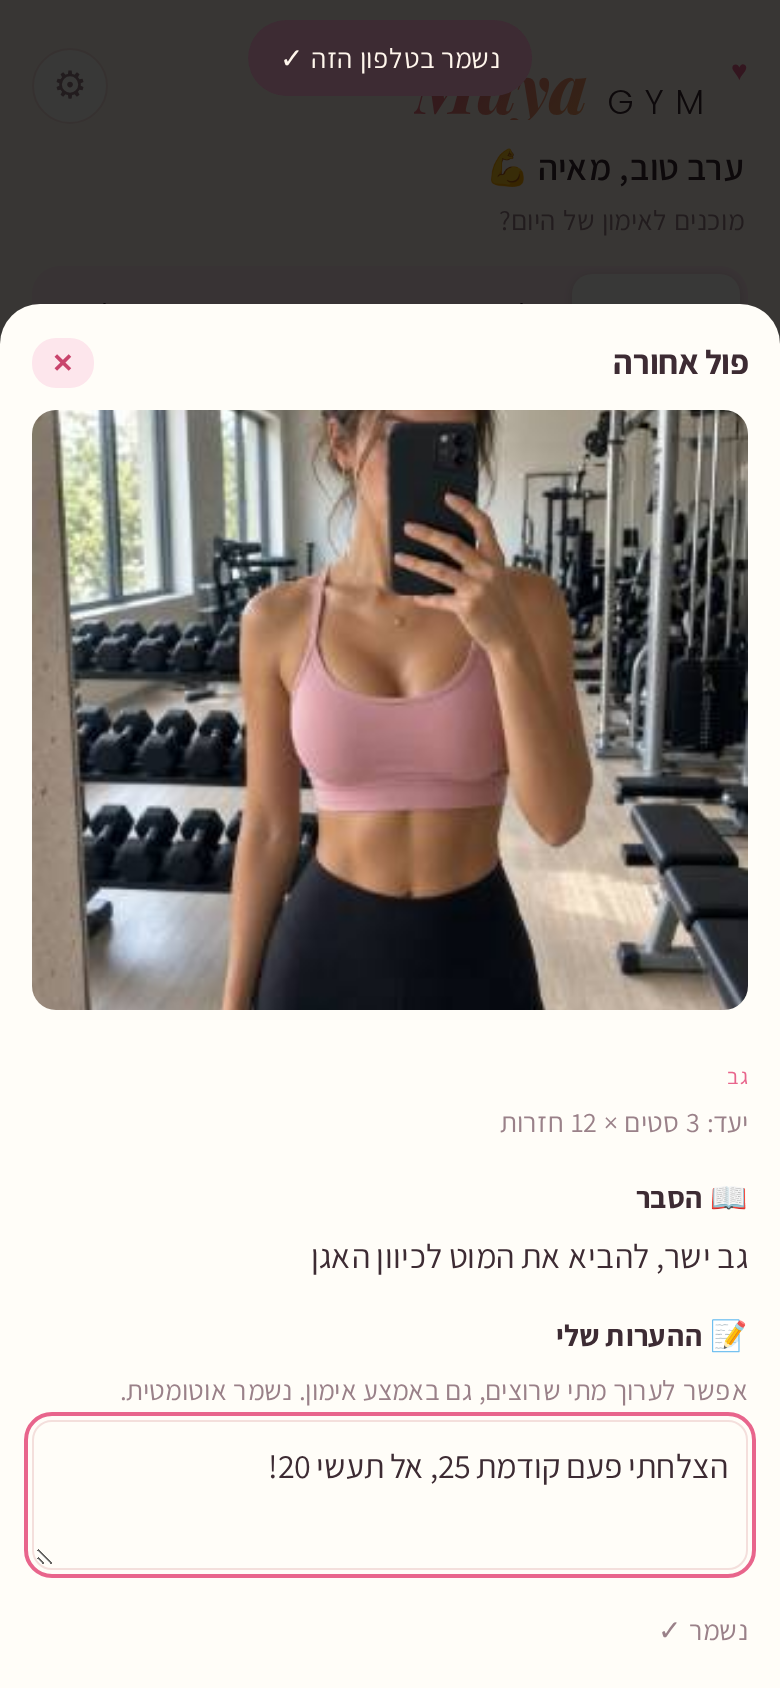
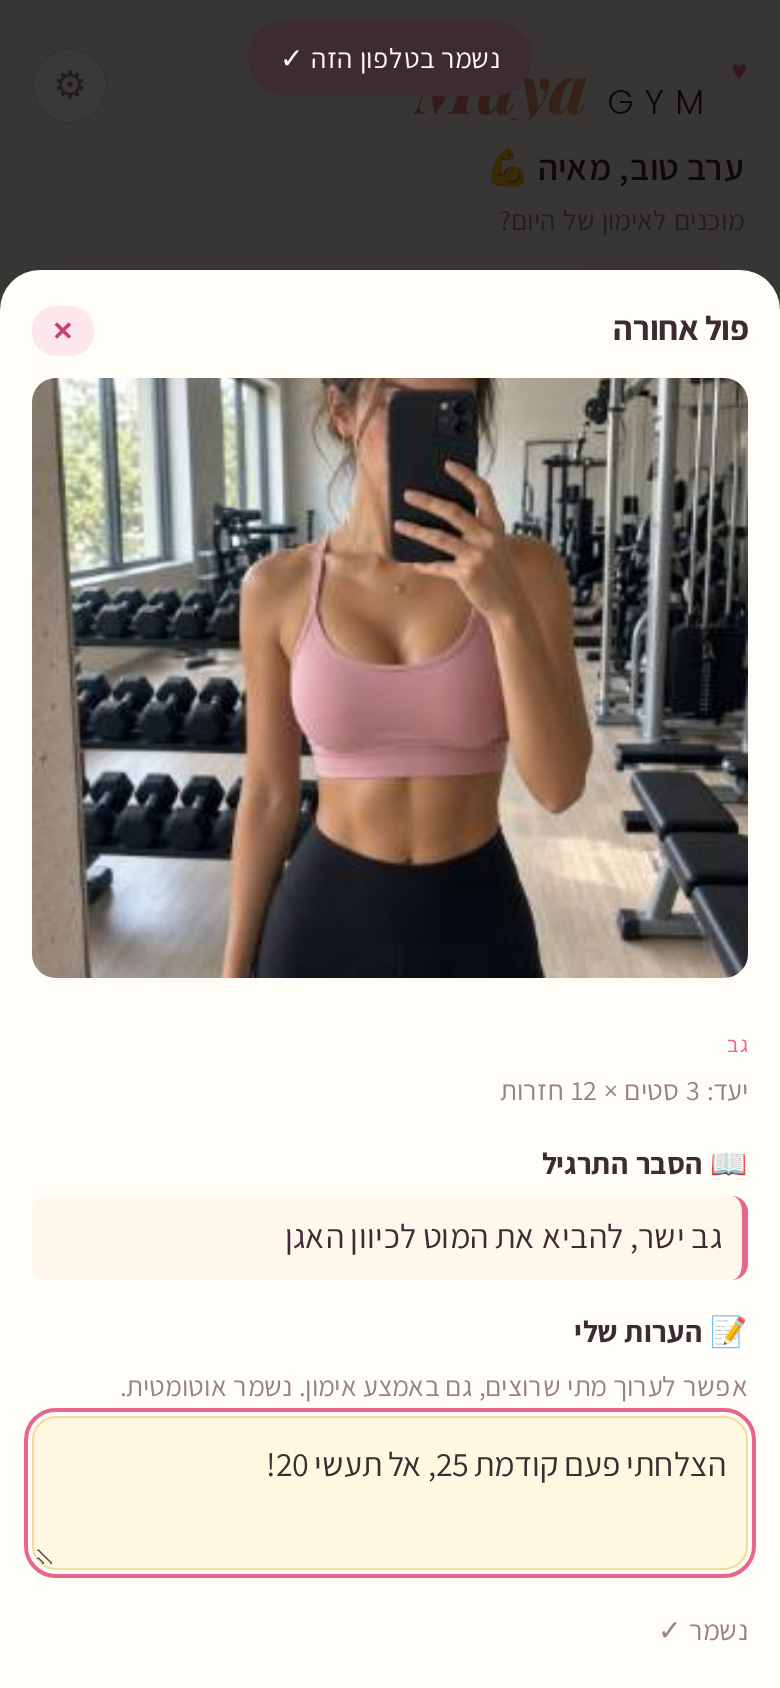
Separate explanation / numeric weight / my notes; migrate item notes; fix local-save BASE aliasing

diff --git a/index.html b/index.html
@@ -66,6 +66,13 @@ body.hasfab #view{padding-bottom:84px}
 @keyframes pu{from{transform:scale(.85);opacity:0}}@keyframes fi{from{opacity:0}}
 .xdh{margin:14px 0 4px;font-size:15px;font-weight:700;text-align:start;display:block;width:100%}.dp{margin:0 0 6px;white-space:pre-wrap}.mynote{width:100%;font:inherit}
 .myn{margin-top:3px;font-size:13px;background:#fff4d6;color:#7a5200;border-radius:8px;padding:3px 8px;display:inline-block}.myn[hidden]{display:none}
+.dp{background:var(--bg);border-inline-start:3px solid var(--ac);border-radius:8px;padding:8px 10px;line-height:1.5}.dp.empty{opacity:.6;border-color:var(--bd)}
+.mnw{margin-top:6px}.mynote{background:#fff8e1;border:1px solid #f3dc9a!important;border-radius:12px;padding:10px}
+.wpill{display:flex;justify-content:space-between;align-items:center;background:#f2eaf5;border-radius:99px;padding:6px 14px;margin:10px 0 2px;font-size:14px}.wpill b{font-size:16px;color:#5c3a48}
+.wfield{display:inline-flex;align-items:center;background:#f2eaf5;border-radius:99px;padding:0 12px 0 4px;gap:4px}.wfield input{width:64px;border:none!important;background:none!important;margin:0!important;padding:6px!important;text-align:center;font-weight:700;font-size:16px}.wfield span{font-size:13px;color:#5c3a48}
+.wl{font-weight:600}.wsm{display:block;font-size:12px;color:#5c3a48;margin-top:3px;text-align:center}.ic{display:flex;flex-direction:column;align-items:center}
+.efr{display:flex;gap:8px;width:100%;margin-top:6px;align-items:flex-end}.ef{display:flex;flex-direction:column;gap:3px}.ef small{font-size:12px;color:var(--mu)}.ef>input{width:64px;margin:0}.ef:last-child{flex:1}
+.myn{white-space:pre-wrap}
 .tag{background:#ffffff1f;color:#ffd6e1}
 .xtop{display:flex;justify-content:space-between;align-items:center;margin:2px 4px 8px}.xtop span{opacity:.6;font-size:13px}
 .tag{font-size:11px;color:var(--ac)}
@@ -183,7 +190,7 @@ const L={get(k,d){try{const v=localStorage.getItem(k);return v==null?d:JSON.pars
 let DATA={ex:[],wk:[],sch:[]};try{DATA=Object.assign(DATA,JSON.parse($("#data").textContent))}catch(_){}
 /* local mode (outside Claude): changes are kept only in this browser, layered over the published data */
 const BASE=JSON.parse(JSON.stringify(DATA)),COLS=["ex","wk","sch"];let localMode=false;
-function applyLocal(){const l=L.get("gym:local",null);if(!l)return;COLS.forEach(c=>{const del=new Set(l.del||[]),ov=new Map((l[c]||[]).map(x=>[x.id,x]));const out=BASE[c].filter(x=>!del.has(x.id)).map(x=>ov.get(x.id)||x);(l[c]||[]).forEach(x=>{if(!BASE[c].some(b=>b.id===x.id))out.push(x)});DATA[c]=out})}
+function applyLocal(){const l=L.get("gym:local",null);if(!l)return;COLS.forEach(c=>{const del=new Set(l.del||[]),ov=new Map((l[c]||[]).map(x=>[x.id,x]));const out=BASE[c].filter(x=>!del.has(x.id)).map(x=>ov.get(x.id)||x);(l[c]||[]).forEach(x=>{if(!BASE[c].some(b=>b.id===x.id))out.push(x)});DATA[c]=JSON.parse(JSON.stringify(out))})}
 function saveLocal(){const l={del:[]};COLS.forEach(c=>{const bm=new Map(BASE[c].map(x=>[x.id,x]));l[c]=DATA[c].filter(x=>!bm.has(x.id)||JSON.stringify(bm.get(x.id))!==JSON.stringify(x));BASE[c].forEach(b=>{if(!DATA[c].some(x=>x.id===b.id))l.del.push(b.id)})});L.set("gym:local",l)}
 let libMode=false,canEdit=false,art=null,tab=L.get("gym:tab2",0),filter="הכל",openW=null,editW=null,pick=false,showForm=false,editEx=null;
 const exById=id=>DATA.ex.find(e=>e.id===id),wkById=id=>DATA.wk.find(k=>k.id===id);
@@ -251,7 +258,7 @@ function ov(...n){const o=$("#ov");if(!n.length){o.replaceChildren();return}cons
 function ov2(...n){const o=$("#ov2");if(!n.length){o.replaceChildren();return}const sh=el("div",{class:"sheet",on:{click:e=>{if(e.target===sh)ov2()}}},el("div",{class:"sh"},n));o.replaceChildren(sh)}
 const closeBtn=f=>el("button",{class:"btn g s",text:"✕","aria-label":"סגור",on:{click:f}});
 function itemsList(k){return el("div",{},(k.items||[]).map((it,i)=>{const ex=exById(it.ex);
-  return el("div",{class:"item"},thumb(ex,"th"),el("div",{class:"n"},el("b",{text:(i+1)+". "+(ex?ex.name:"(תרגיל נמחק)")}),it.note?el("div",{class:"mu",text:it.note}):null),el("span",{class:"num",text:(it.sets||"-")+" × "+(it.reps||"-")}))}))}
+  return el("div",{class:"item"},thumb(ex,"th"),el("div",{class:"n"},el("b",{text:(i+1)+". "+(ex?ex.name:"(תרגיל נמחק)")}),ex&&ex.my?el("div",{class:"myn",text:"📝 "+ex.my}):null),el("div",{class:"ic"},el("span",{class:"num",text:(it.sets||"-")+" × "+(it.reps||"-")}),it.w?el("span",{class:"wsm",text:"🏋 "+it.w+" ק״ג"}):null))}))}
 function greet(){
   const g=$("#greet");if(!g)return;const n=L.get("gym:name","");const h=new Date().getHours();
   const w=h>=5&&h<12?"בוקר טוב":h<17?"צהריים טובים":h<21?"ערב טוב":"לילה טוב";
@@ -282,21 +289,30 @@ function showExercise(ex,it){
     ex.img?el("img",{class:"big",src:ex.img,alt:ex.name}):null,
     el("span",{class:"tag",text:ex.muscle||""}),
     it?el("div",{class:"mu",text:"יעד: "+(it.sets||"-")+" סטים × "+(it.reps||"-")+" חזרות"}):null,
-    el("div",{class:"xdh",text:"📖 הסבר"}),
-    el("p",{class:"dp",text:exDesc(ex,it)||"אין הסבר לתרגיל הזה עדיין."}),
-    it&&it.note&&it.note.trim()!==exDesc(ex,it)?el("div",{class:"mu",text:"הערה באימון הזה: "+it.note}):null,
+    wPill(it&&it.w||L.get("gym:lw:"+ex.id,""),it&&it.w?"משקל באימון":"משקל אחרון"),
+    el("div",{class:"xdh",text:"📖 הסבר התרגיל"}),
+    el("div",{class:"dp"+(exDesc(ex)?"":" empty"),text:exDesc(ex)||"אין הסבר לתרגיל הזה עדיין."}),
     noteBox(ex));
 }
 /* explanation: the exercise's own desc; older data may only have it in ex.note or in a workout item note */
-function exDesc(ex,it){return ((ex&&(ex.desc||ex.note))||(it&&it.note)||"").trim()}
-function normEx(){DATA.ex.forEach(e=>{if(!(e.desc||"").trim()){const n=(e.note||"").trim()||((DATA.wk.flatMap(k=>k.items||[]).find(it=>it.ex===e.id&&(it.note||"").trim())||{}).note||"").trim();if(n)e.desc=n}})}
+function exDesc(ex){return ((ex&&(ex.desc||ex.note))||"").trim()}
+function wPill(w,lbl){return w?el("div",{class:"wpill"},el("span",{text:"🏋 "+(lbl||"משקל")}),el("b",{text:w+" ק״ג"})):null}
+const numOnly=i=>i.addEventListener("input",()=>{const v=i.value.replace(/[^\d.,]/g,"").replace(",",".");if(v!==i.value)i.value=v});
+function wIn(val,ph){const i=el("input",{inputmode:"decimal",class:"wnum",placeholder:ph||"0",value:val||""});numOnly(i);return [el("label",{class:"wfield"},i,el("span",{text:"ק״ג"})),i]}
+function addMy(e,t){t=(t||"").trim();if(!e||!t)return;const m=(e.my||"").trim();if(m.includes(t))return;e.my=m?m+"\n"+t:t}
+function splitW(t){t=(t||"").trim();const m=t.match(/(\d+(?:[.,]\d+)?)\s*(?:ק[״"']?ג|קילו(?:גרם)?|קג|kg)?/i);if(!m)return{w:"",rest:t};
+  return{w:m[1].replace(",","."),rest:(t.slice(0,m.index)+" "+t.slice(m.index+m[0].length)).replace(/\s+/g," ").replace(/^[\s,.\-–:]+|[\s,.\-–:]+$/g,"")}}
+function normEx(){normEx0();DATA.wk.forEach(k=>(k.items||[]).forEach(it=>{if(it.note==null||it.note==="")return delete it.note;
+  const e=exById(it.ex),{w,rest}=splitW(it.note);if(w&&!it.w)it.w=w;else if(w)addMy(e,it.note.trim());
+  if(rest&&rest!==exDesc(e))addMy(e,rest);delete it.note}))}
+function normEx0(){DATA.ex.forEach(e=>{if(!(e.desc||"").trim()){const n=(e.note||"").trim()||((DATA.wk.flatMap(k=>k.items||[]).find(it=>it.ex===e.id&&(it.note||"").trim()&&!/\d/.test(it.note))||{}).note||"").trim();if(n)e.desc=n}})}
 function noteBox(ex){
   const ta=el("textarea",{class:"mynote",rows:2,placeholder:"למשל: בפעם הקודמת הצלחתי 25 – לא לרדת ל־20!"});ta.value=ex.my||"";
   const st=el("small",{class:"mu"});let t;
   ta.addEventListener("input",()=>{st.textContent="שומר…";clearTimeout(t);t=setTimeout(()=>{const v=ta.value.trim();
     const e=exById(ex.id);if(!e)return;if(v)e.my=v;else delete e.my;ex.my=e.my;commit();st.textContent="נשמר ✓";
     document.querySelectorAll('[data-my="'+ex.id+'"]').forEach(d=>{d.textContent=v?"📝 "+v:"";d.hidden=!v})},600)});
-  return el("div",{class:"mnw"},el("div",{class:"xdh",text:"📝 ההערות שלי"}),el("div",{class:"mu",style:"margin-bottom:4px",text:"אפשר לערוך מתי שרוצים, גם באמצע אימון. נשמר אוטומטית."}),ta,st)}
+  return el("div",{class:"mnw"},el("div",{class:"xdh",text:"📝 הערות שלי"}),el("div",{class:"mu",style:"margin-bottom:4px",text:"אפשר לערוך מתי שרוצים, גם באמצע אימון. נשמר אוטומטית."}),ta,st)}
 function openSession(id){
   const k=wkById(id);if(!k)return;
   const key=keyFor(id);let st=L.get(key,{d:{},w:{}});st.d=st.d||{};st.w=st.w||{};
@@ -309,10 +325,10 @@ function openSession(id){
     const th=thumb(ex,"th");th.addEventListener("click",open);
     const nm=el("b",{class:"nm",text:(i+1)+". "+(ex?ex.name:"(תרגיל נמחק)")+" ⓘ",on:{click:open}});
     const lw=L.get("gym:lw:"+it.ex,"");
-    const wi=el("input",{inputmode:"decimal",placeholder:lw?"קודם: "+lw:"ק״ג",value:st.w[i]||""});
+    const [wf,wi]=wIn(st.w[i]||"",it.w||lw||"0");
     wi.addEventListener("input",()=>{st.w[i]=wi.value;if(wi.value)L.set("gym:lw:"+it.ex,wi.value);save()});
-    const card=el("div",{class:"item",style:"flex-wrap:wrap"},th,el("div",{class:"n"},nm,it.note?el("div",{class:"mu",text:it.note}):null,el("div",Object.assign({class:"myn","data-my":it.ex,text:ex&&ex.my?"📝 "+ex.my:""},ex&&ex.my?{}:{hidden:""}))),
-      el("div",{class:"wt"},"משקל (ק״ג):",wi),row);
+    const card=el("div",{class:"item",style:"flex-wrap:wrap"},th,el("div",{class:"n"},nm,el("div",Object.assign({class:"myn","data-my":it.ex,text:ex&&ex.my?"📝 "+ex.my:""},ex&&ex.my?{}:{hidden:""}))),
+      el("div",{class:"wt"},el("span",{class:"wl",text:"🏋 משקל"}),wf,it.w||lw?el("small",{class:"mu",text:it.w?"יעד: "+it.w+" ק״ג":"קודם: "+lw+" ק״ג"}):null),row);
     const mark=()=>card.classList.toggle("fin",Array.from({length:n},(_,j)=>st.d[i+"_"+j]).every(Boolean));
     for(let j=0;j<n;j++){
       const lbl=()=>(st.d[i+"_"+j]?"✓ ":"")+"סט "+(j+1)+(it.reps?" · "+it.reps:"");
@@ -572,14 +588,16 @@ function wkForm(){
   const p=el("div",{class:"panel"},el("b",{text:k.isNew?"אימון חדש":"עריכת אימון"}),el("div",{style:"height:8px"}),name);
   k.items.forEach((it,i)=>{
     const ex=exById(it.ex);
-    const sets=el("input",{type:"number",placeholder:"סטים",value:it.sets||"",style:"width:70px"});
-    const reps=el("input",{placeholder:"חזרות",value:it.reps||"",style:"width:80px"});
-    const note=el("input",{placeholder:"הערה (משקל, מנוחה…)",value:it.note||""});
-    sets.oninput=()=>it.sets=sets.value;reps.oninput=()=>it.reps=reps.value;note.oninput=()=>it.note=note.value;
+    const sets=el("input",{type:"number",inputmode:"numeric",placeholder:"3",value:it.sets||""});
+    const reps=el("input",{placeholder:"12",value:it.reps||""});
+    const [wf,wi]=wIn(it.w||"","—");
+    sets.oninput=()=>it.sets=sets.value;reps.oninput=()=>it.reps=reps.value;wi.addEventListener("input",()=>{if(wi.value)it.w=wi.value;else delete it.w});
+    const fld=(l,x)=>el("label",{class:"ef"},el("small",{text:l}),x);
     p.append(el("div",{class:"item",style:"flex-wrap:wrap"},thumb(ex,"th"),el("div",{class:"n"},el("b",{text:ex?ex.name:"?"})),
       el("button",{class:"btn g s",text:"↑",on:{click:()=>{if(i){[k.items[i-1],k.items[i]]=[k.items[i],k.items[i-1]];render()}}}}),
       el("button",{class:"btn g s",text:"✕",on:{click:()=>{k.items.splice(i,1);render()}}}),
-      el("div",{class:"row",style:"width:100%"},sets,reps,note)));
+      el("div",{class:"efr"},fld("סטים",sets),fld("חזרות",reps),fld("🏋 משקל (ק״ג)",wf)),
+      ex&&ex.my?el("div",{class:"myn",style:"width:100%",text:"📝 "+ex.my}):null));
   });
   const pk=el("div");
   pk.append(el("div",{style:"margin:10px 0 6px"},el("b",{text:"בחר תרגילים מהמאגר"}),el("span",{class:"mu",text:" (לחיצה מוסיפה לאימון)"})));
